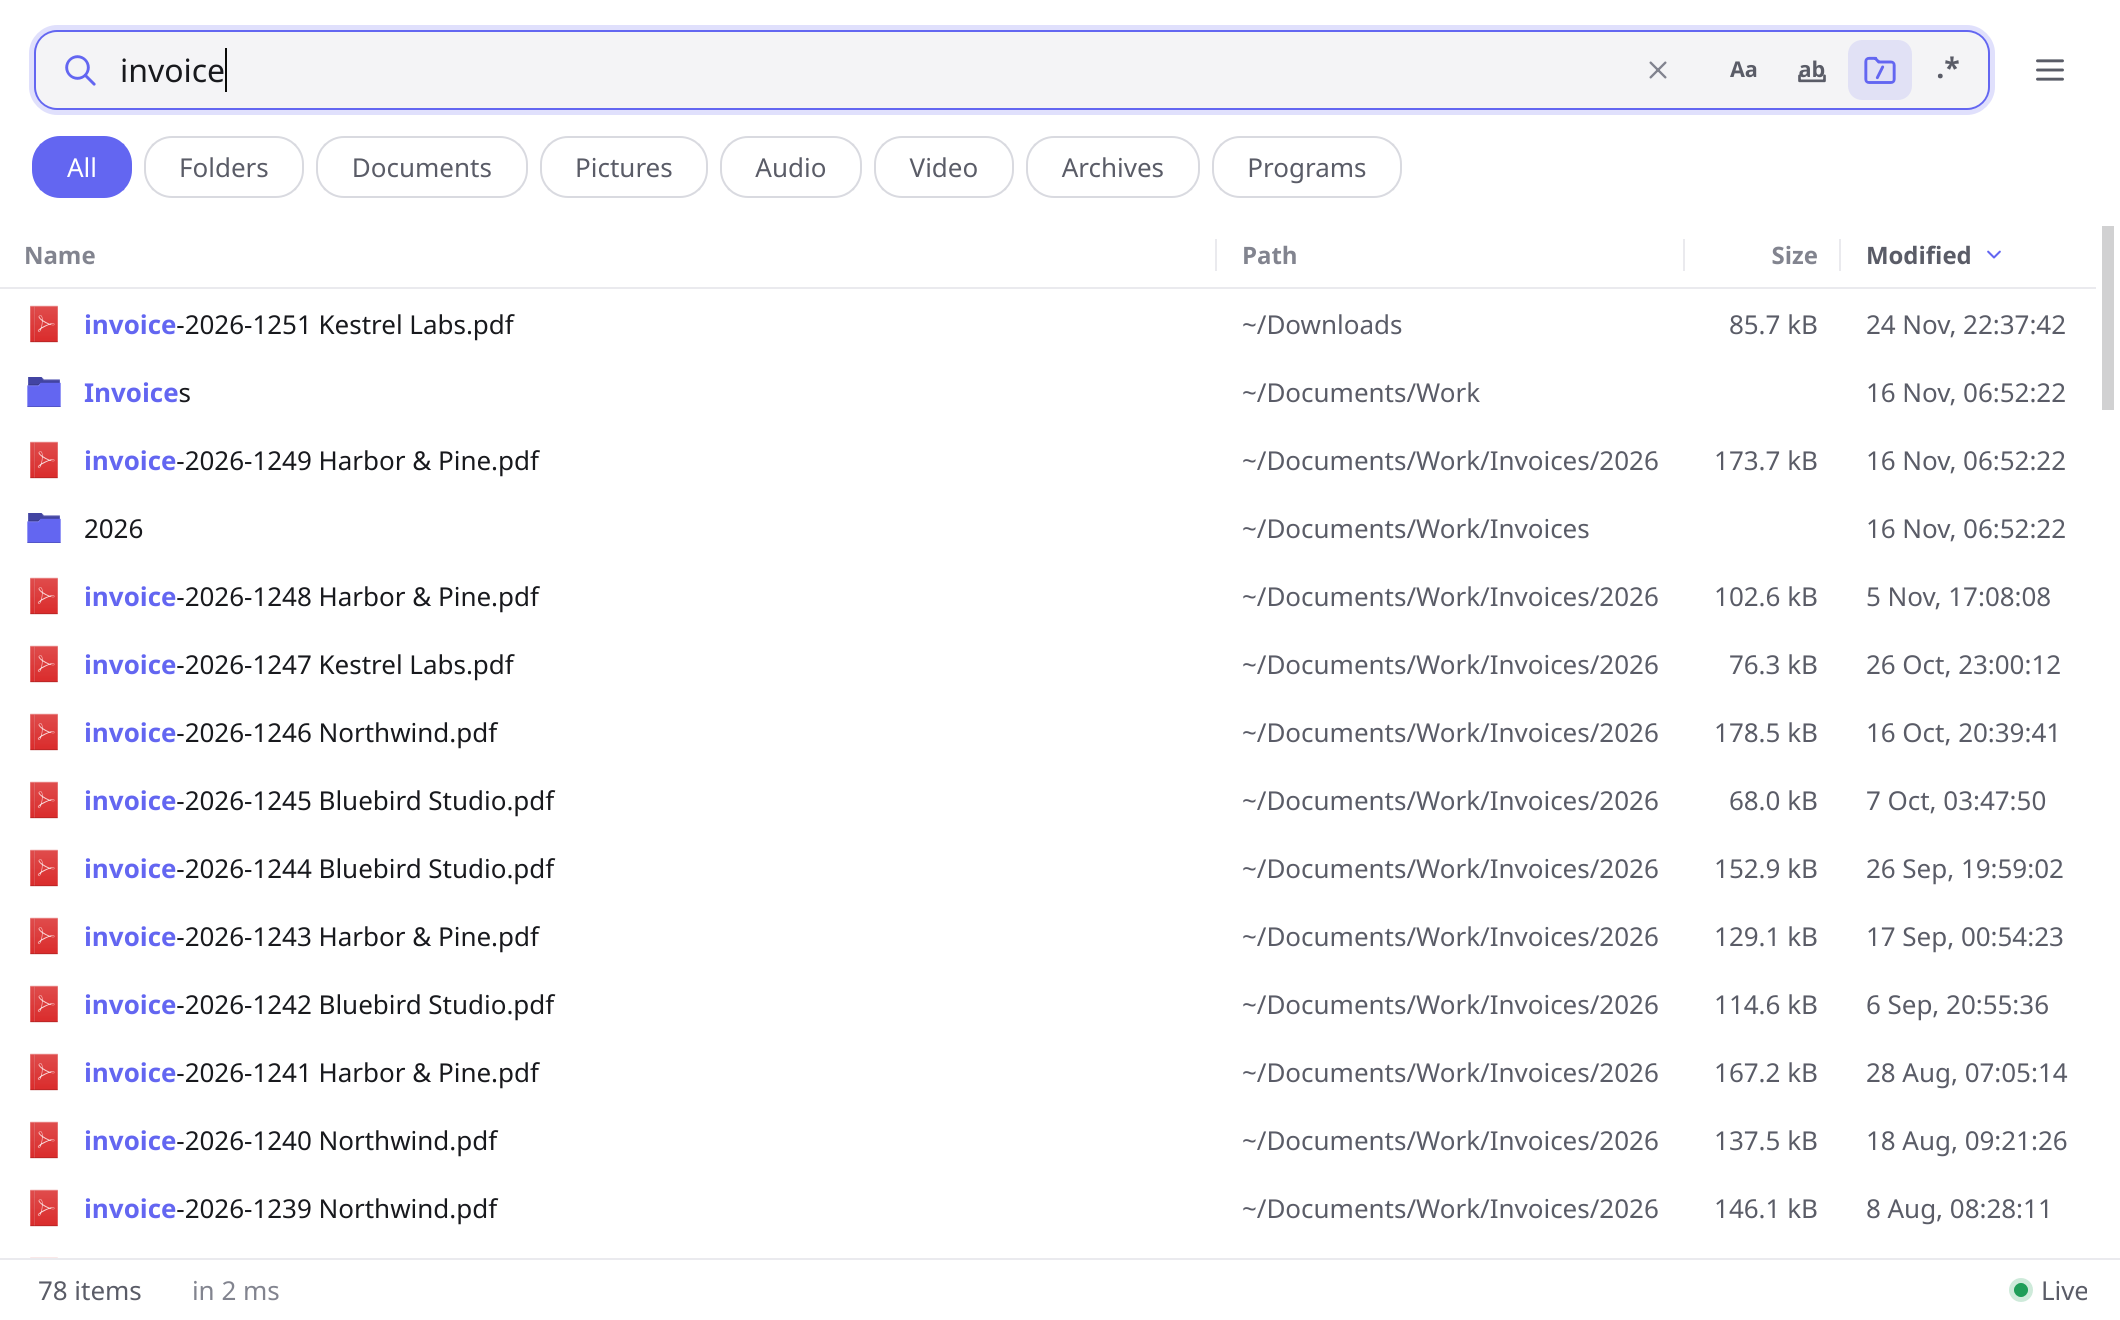
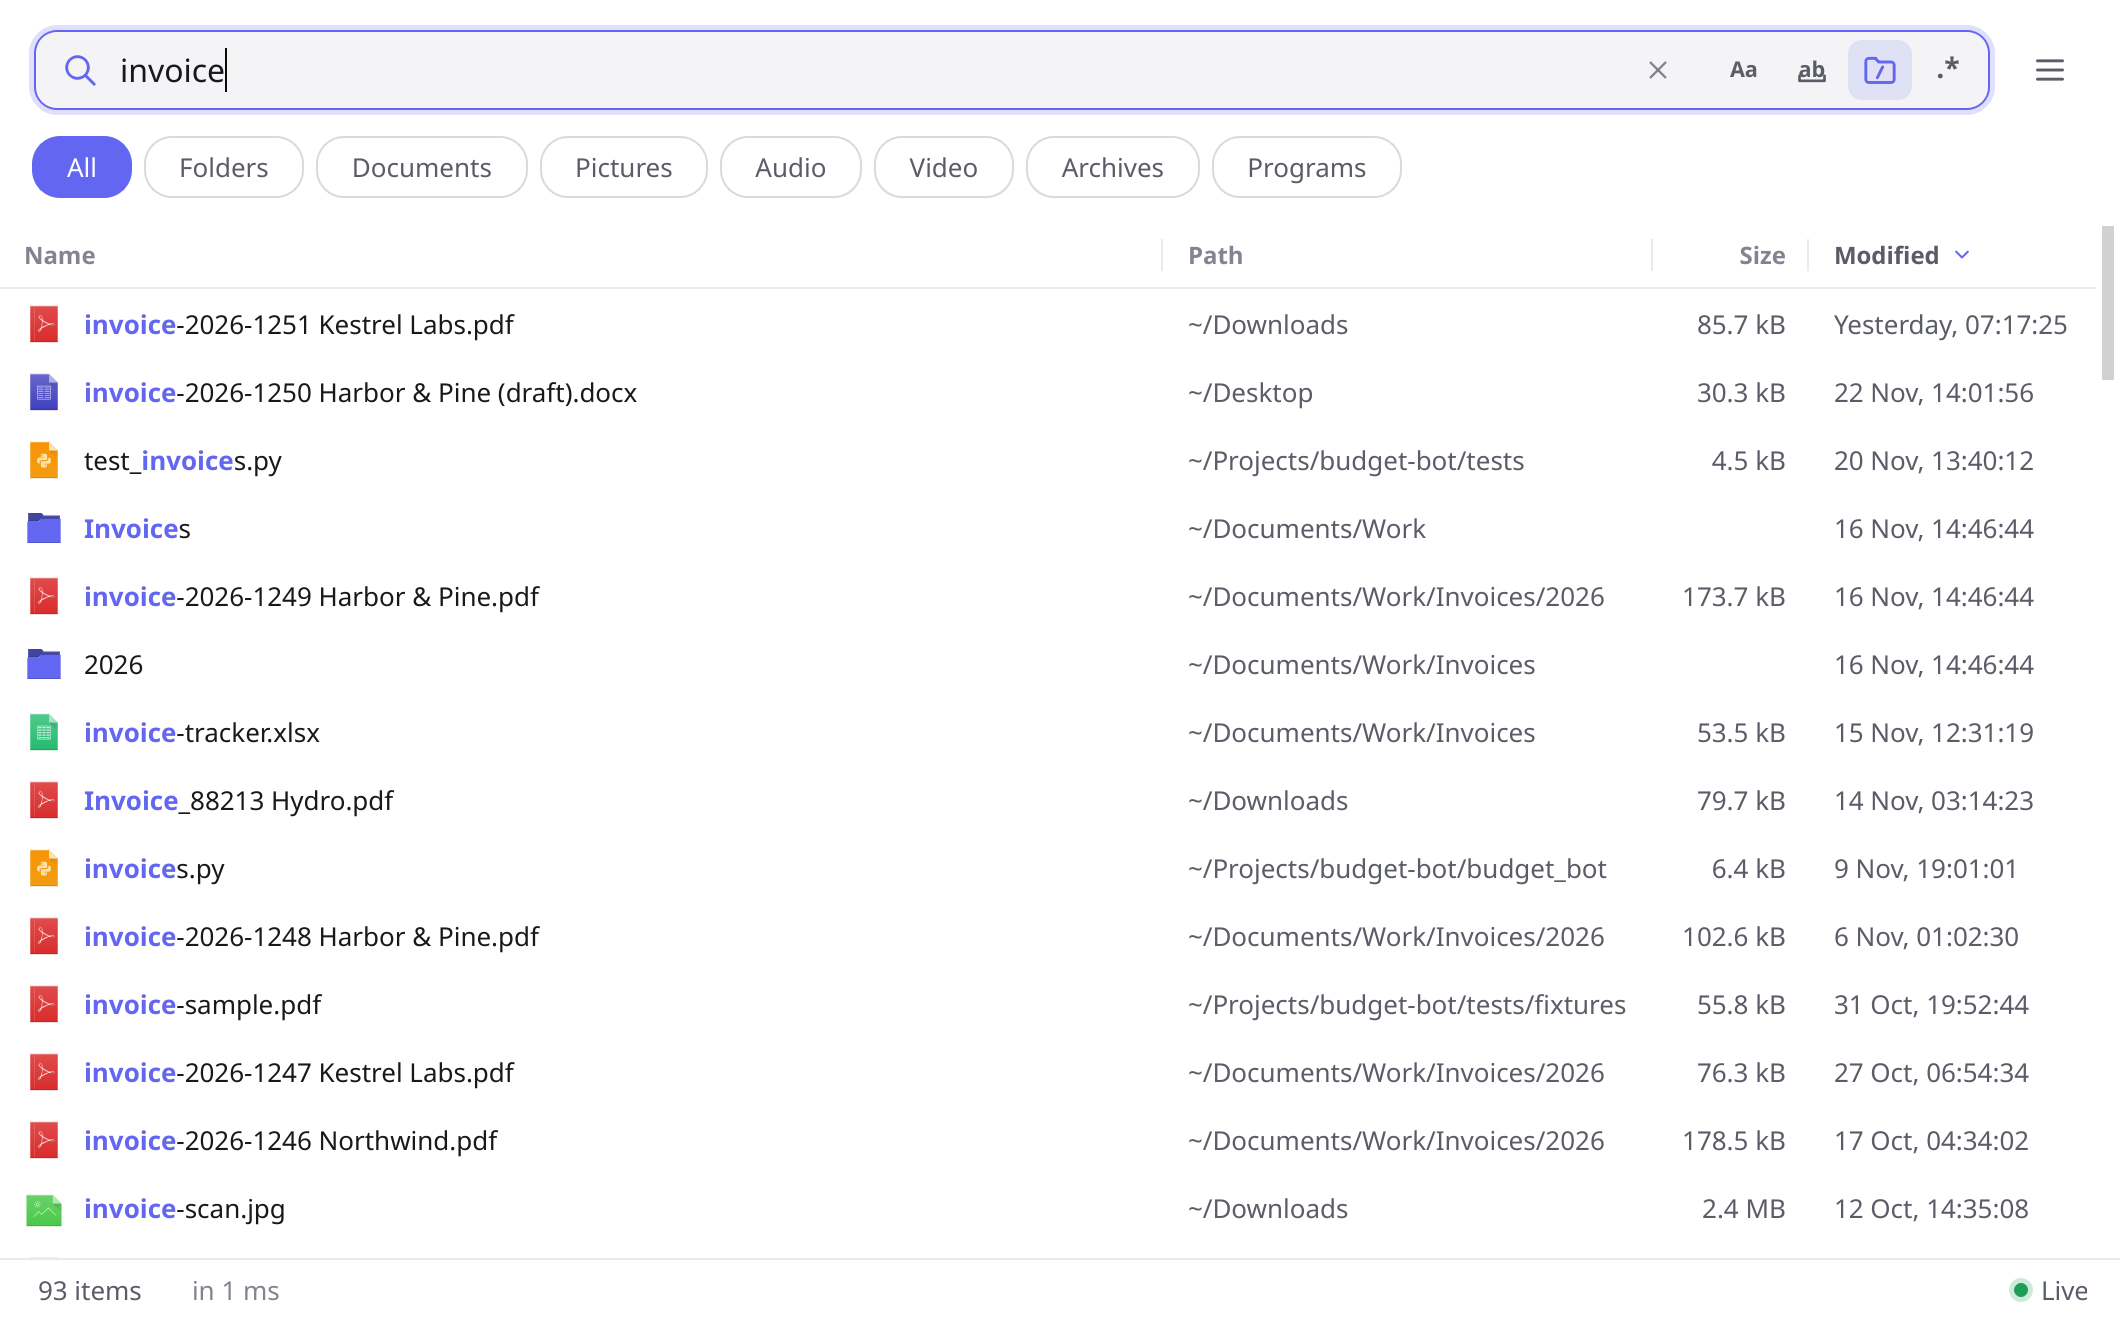
Demo: narrow a search step by step, faster
The GIF now types "invoice", then "documents/", ".pdf" and "kestrel",
cutting 93 matches down to one client's invoices, then moves an invoice
out of Downloads into the results and ends on ".flac". 11.6 s instead
of 15. The made-up home folder gains invoice-named code, scans, drafts
and templates so each step visibly removes something.

diff --git a/site/index.html b/site/index.html
@@ -156,7 +156,7 @@ footer a { color: var(--dim); }
       </a>
     </div>
     <div class="sub" id="dl-sub">Version @VERSION@. Free, open source (GPL-3.0). No account, no telemetry.</div>
-    <div class="shot"><img src="demo.gif" width="1060" height="660" alt="Typing “invoice” lists 78 matches in 2 milliseconds. A new invoice saved to Downloads appears at the top while the search is open. Then typing “.flac” lists the music."></div>
+    <div class="shot"><img src="demo.gif" width="1060" height="660" alt="Typing “invoice” lists every matching file. Adding “documents/”, then “.pdf”, then “kestrel” narrows it step by step from 93 matches to one client’s 11 invoices, each in about 2 ms. An invoice moved in from Downloads appears at the top while the search is open. Then “.flac” lists the music."></div>
   </div>
 
   <section id="why">

diff --git a/tests/demo/tree.py b/tests/demo/tree.py
@@ -59,6 +59,9 @@ def main(home):
     put(d("Documents", "Apartment", "lease-2025.pdf"), kb(300, 600), 400)
     put(d("Documents", "Apartment", "renters-insurance.pdf"), kb(100, 300), 380)
     put(d("Documents", "Car", "service-invoice-2025-09.pdf"), kb(60, 120), 430)
+    put(d("Documents", "Templates", "invoice-template.docx"), kb(20, 40), 500)
+    put(d("Documents", "Templates", "invoice-template.odt"), kb(15, 30), 480)
+    put(d("Documents", "Work", "Invoices", "invoice-tracker.xlsx"), kb(40, 80), 11)
 
     # Photos.
     n = 1000
@@ -96,7 +99,9 @@ def main(home):
                             ("boarding-pass-YUL-LIS.pdf", kb(90, 140), 6), ("debian-13.2.0-amd64-netinst.iso", mb(650, 700), 20),
                             ("node-v24.11.1-linux-x64.tar.xz", mb(28, 30), 33), ("fonts.zip", mb(4, 6), 70),
                             ("IMG_3391 (1).jpg", mb(2, 4), 8), ("bank-statement-2026-10.pdf", kb(100, 200), 24),
-                            ("Screenshot from 2026-11-02.png", kb(200, 600), 23), ("setup-notes.txt", kb(1, 3), 50)]:
+                            ("Screenshot from 2026-11-02.png", kb(200, 600), 23), ("setup-notes.txt", kb(1, 3), 50),
+                            ("Invoice_88213 Hydro.pdf", kb(50, 90), 12), ("invoice-scan.jpg", mb(1, 3), 45),
+                            ("invoice template (1).docx", kb(20, 40), 160)]:
         put(d("Downloads", name), size, age)
 
     # Code, with the usual heaps of dependencies.
@@ -117,6 +122,9 @@ def main(home):
             put(os.path.join(root, "package.json"), kb(1, 3), age)
             for s in rng.sample(stems, 10):
                 put(os.path.join(root, "src", f"{s}.ts"), kb(1, 20), age + rng.randrange(0, 60))
+            if p == "website":
+                for s in ["InvoiceList.tsx", "InvoiceRow.tsx", "invoice.css"]:
+                    put(os.path.join(root, "src", "components", s), kb(1, 9), age + rng.randrange(0, 30))
             for pk in pkgs:
                 for i in range(rng.randrange(60, 400)):
                     sub = rng.choice(["", "lib", "dist", "esm", "cjs", "src"])
@@ -130,14 +138,22 @@ def main(home):
                 put(os.path.join(root, "target", "debug", "deps", f"{rng.choice(stems)}-{rng.getrandbits(64):016x}.d"), kb(0.5, 5), age)
         elif kind == "py":
             put(os.path.join(root, "pyproject.toml"), kb(0.5, 2), age)
-            for s in ["bot", "budget", "categories", "import_bank", "report"]:
+            for s in ["bot", "budget", "categories", "import_bank", "invoices", "report"]:
                 put(os.path.join(root, "budget_bot", f"{s}.py"), kb(1, 12), age + rng.randrange(0, 60))
+            put(os.path.join(root, "tests", "test_invoices.py"), kb(1, 8), age)
+            put(os.path.join(root, "tests", "fixtures", "invoice-sample.pdf"), kb(30, 60), age + 20)
             for i in range(2500):
                 put(os.path.join(root, ".venv", "lib", "python3.13", "site-packages", rng.choice(pkgs).replace("@", "").replace("/", "_"),
                                  f"{rng.choice(stems)}{i}.py"), kb(0.5, 30), age + 30)
         else:
             for f in [".bashrc", ".vimrc", ".gitconfig", "kitty.conf", "starship.toml", "install.sh"]:
                 put(os.path.join(root, f), kb(0.5, 8), age)
+
+    # Things that mention invoices but are not the invoices themselves.
+    put(d("Desktop", "invoice-2026-1250 Harbor & Pine (draft).docx"), kb(20, 40), 4)
+    put(d("Desktop", "todo.txt"), kb(1, 2), 2)
+    put(d("Pictures", "Scans", "plumber-invoice-2025.jpg"), mb(1, 3), 300)
+    put(d("Pictures", "Scans", "moving-company-invoice.jpg"), mb(1, 3), 410)
 
     # The usual hidden clutter.
     for i in range(6000):

diff --git a/README.md b/README.md
@@ -13,7 +13,7 @@ Not affiliated with voidtools.
 
 **[trawlr.io](https://trawlr.io)** · **[Download](../../releases/latest)** · [Install](#install) · [Search syntax](#search-syntax)
 
-<p align="center"><img src="docs/demo.gif" width="880" alt="Typing “invoice” lists 78 matches in 2 ms. A new invoice saved to Downloads appears at the top while the search is open. Typing “.flac” then lists the music."></p>
+<p align="center"><img src="docs/demo.gif" width="880" alt="Typing “invoice” lists every matching file. Adding “documents/”, then “.pdf”, then “kestrel” narrows it step by step from 93 matches to one client’s 11 invoices, each in about 2 ms. An invoice moved in from Downloads appears at the top while the search is open. Then “.flac” lists the music."></p>
 
 ## How it works
 
@@ -132,7 +132,7 @@ Plasma), or bind a key to the command `trawlr` in your desktop's keyboard settin
 
 <picture>
   <source media="(prefers-color-scheme: dark)" srcset="docs/screenshot-dark.png">
-  <img src="docs/screenshot-light.png" width="880" alt="The Trawlr window: a search for “invoice” with its matches listed by name, folder, size and date, newest first, and 78 items found in 2 ms.">
+  <img src="docs/screenshot-light.png" width="880" alt="The Trawlr window: a search for “invoice” with its matches listed by name, folder, size and date, newest first, and 93 items found in 2 ms.">
 </picture>
 
 | Key | Action |
